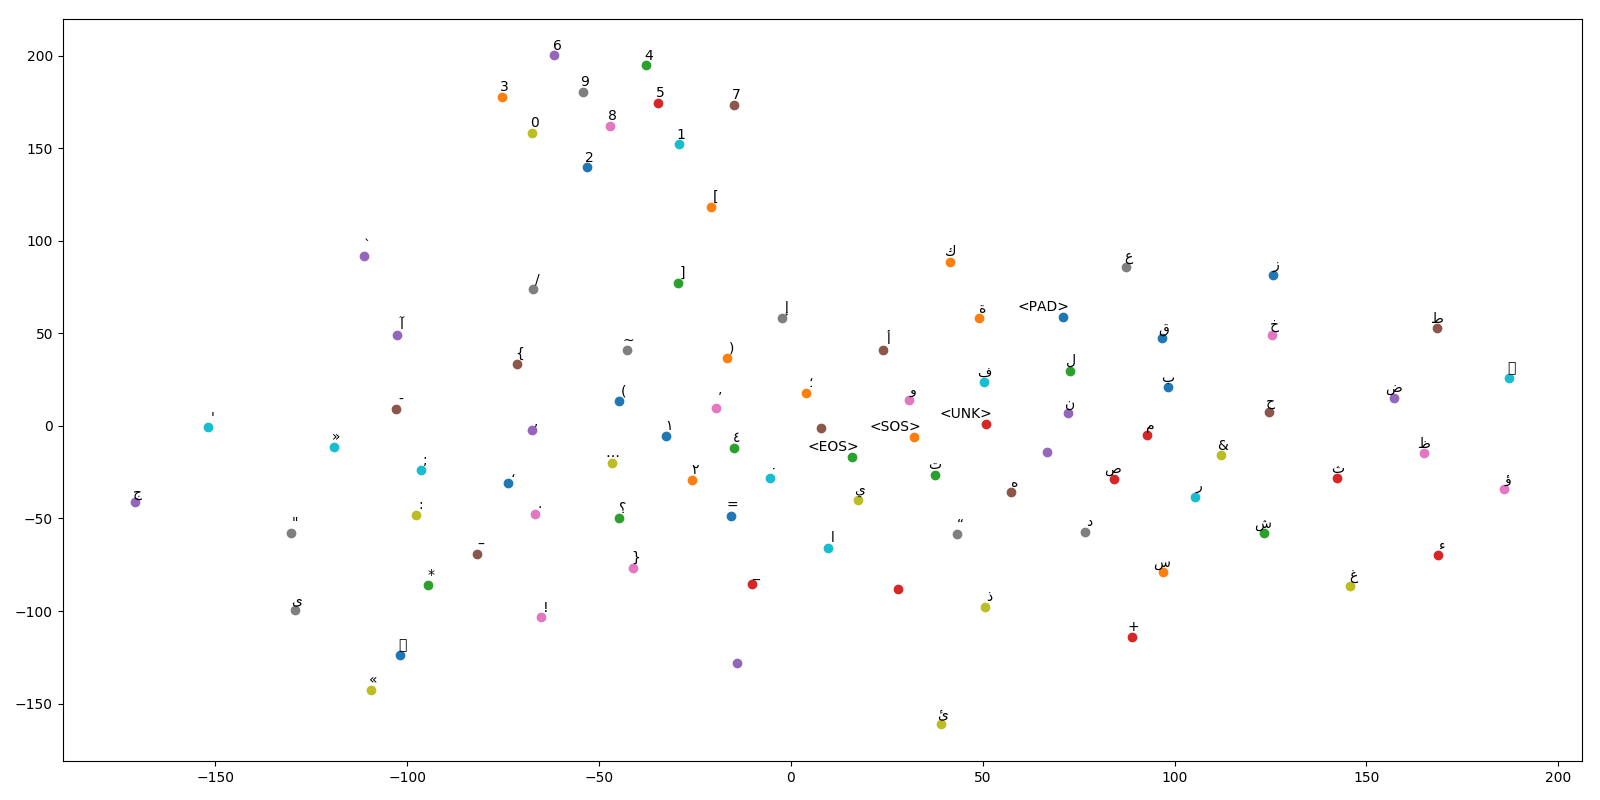
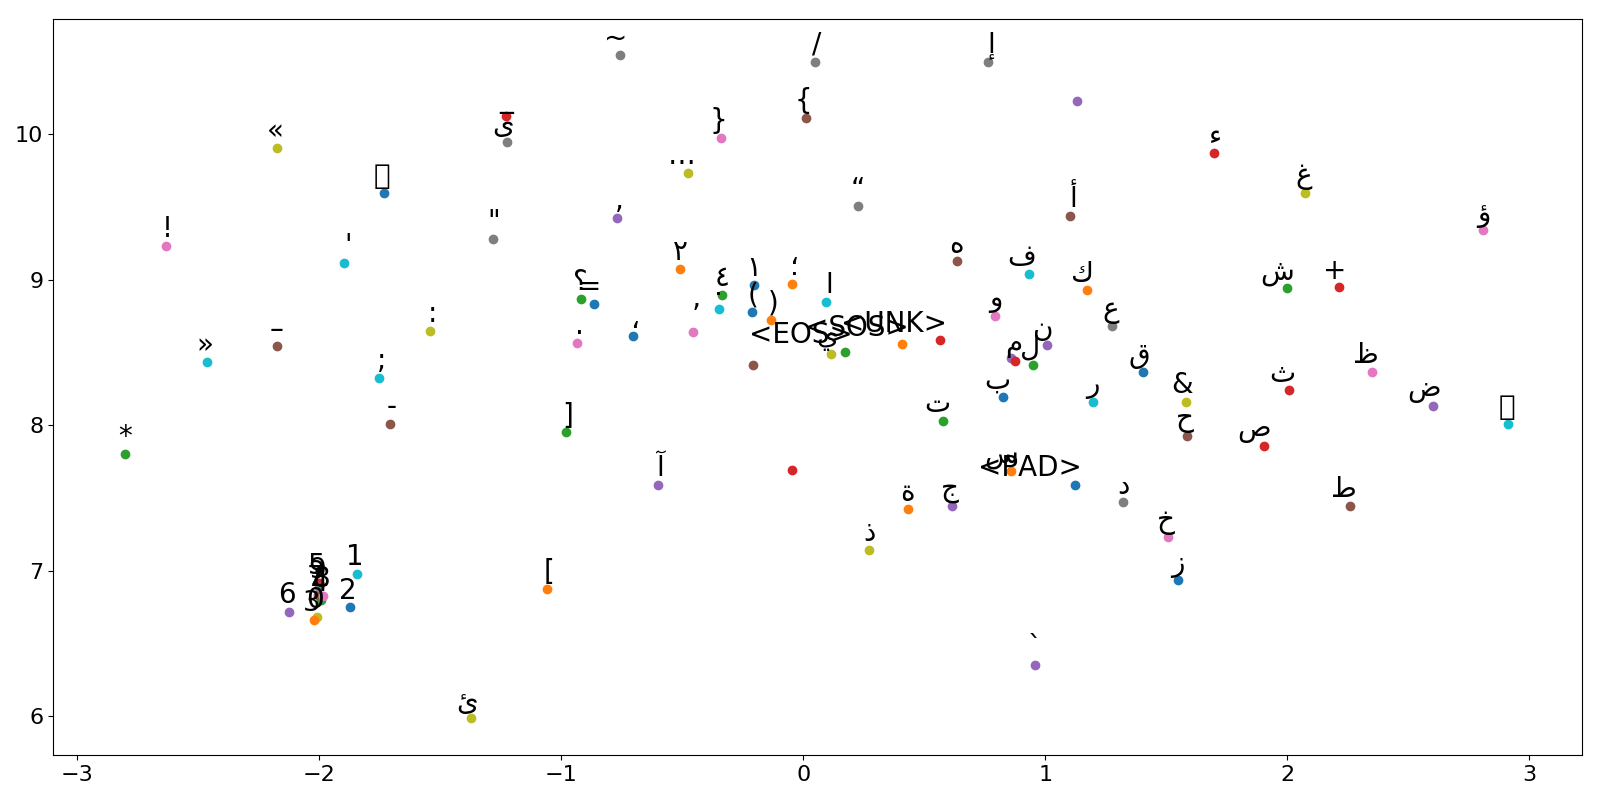
Update RNN models figures

diff --git a/helpers/build_der_figure.py b/helpers/build_der_figure.py
@@ -15,7 +15,7 @@ if __name__ == '__main__':
   
   colors = ['r', 'b', 'k']
 
-  plt.figure(num=None, figsize=(16, 6), dpi=100, facecolor='w', edgecolor='k')
+  fig, ax = plt.subplots(num=None, figsize=(10, 5), dpi=100, facecolor='w', edgecolor='k')
 
   for color, folder in zip(colors, folders):
     print(folder)
@@ -39,16 +39,27 @@ if __name__ == '__main__':
     plt.plot([i for i in range(5, 51, 5)], small_der, '%s%s--' % (color, 's'))
     plt.plot([i for i in range(5, 51, 5)], big_der, '%s%s-' % (color, 'o'))
 
-  plt.title('DER while Training')
-  plt.ylabel('DER')
-  plt.xlabel('Epoch')
-  plt.xticks([i for i in range(5, 51, 5)])
+  plt.ylabel('DER', fontsize=20)
+  plt.xlabel('Epoch', fontsize=20)
+
+  plt.xticks([i for i in range(5, 51, 5)], fontsize=16)
+
+  for tick in ax.yaxis.get_major_ticks():
+    tick.label.set_fontsize(16)
 
   handles = list()
   for color, folder in zip(colors, folders):
-    handles.append(Line2D([0], [0], color=color, lw=4, label=folder.split(sep)[-1].split('_')[1].title() + ' Model'))
+    model_name = folder.split(sep)[-1].split('_')[1].title()
+    if model_name == 'Crf':
+      model_name = model_name.upper()
+    if model_name == 'Normalized':
+      model_name = 'BNG'
+    handles.append(Line2D([0], [0], color=color, lw=4, label=model_name + ' Model'))
   handles.append(Line2D([0], [0], marker='s', label='w/o extra train'))
   handles.append(Line2D([0], [0], marker='o', label='w/ extra train'))
 
-  plt.legend(handles=handles, loc='best')
+  plt.legend(handles=handles, loc='best', fontsize=20)
+
+  plt.tight_layout()
+
   plt.show()

diff --git a/helpers/plot_character_embeddings.py b/helpers/plot_character_embeddings.py
@@ -7,7 +7,7 @@ from os.path import isdir, join
 from sklearn.manifold import TSNE
 
 def tsne_plot(tokens, labels):
-  tsne_model = TSNE(perplexity=20, random_state=1, n_components=2, init='pca')
+  tsne_model = TSNE(perplexity=40, random_state=40, n_components=2, n_iter=10000, init='pca')
   new_values = tsne_model.fit_transform(tokens)
 
   x = []
@@ -16,7 +16,7 @@ def tsne_plot(tokens, labels):
     x.append(value[0])
     y.append(value[1])
 
-  plt.figure(figsize=(16, 8)) 
+  fig, ax = plt.subplots(figsize=(16, 8)) 
   for i in range(len(x)):
     plt.scatter(x[i], y[i])
     plt.annotate(labels[i],
@@ -24,7 +24,12 @@ def tsne_plot(tokens, labels):
                  xytext=(5, 2),
                  textcoords='offset points',
                  ha='right',
-                 va='bottom')
+                 va='bottom',
+                 fontsize=20)
+  for tick in ax.xaxis.get_major_ticks():
+    tick.label.set_fontsize(16)
+  for tick in ax.yaxis.get_major_ticks():
+    tick.label.set_fontsize(16)
   plt.tight_layout()
   plt.show()
 
@@ -39,5 +44,6 @@ if __name__ == '__main__':
 
   with open(args.vocab_path, 'rb') as file:
     vocab = pkl.load(file)
+  vocab = list(vocab)
 
   tsne_plot(embeddings, vocab)

diff --git a/helpers/extract_character_embeddings.py b/helpers/extract_character_embeddings.py
@@ -1,0 +1,28 @@
+import argparse
+import pickle as pkl
+
+from keras.models import load_model
+from keras.initializers import glorot_normal
+from keras_contrib.layers import CRF
+from keras_contrib.losses import crf_loss
+from optimizer import NormalizedOptimizer
+
+if __name__ == '__main__':
+  parser = argparse.ArgumentParser()
+  parser.add_argument('--model-path', required=True)
+  args = parser.parse_args()
+
+  custom_objects = {
+    'GlorotNormal': glorot_normal(),
+    'CRF': CRF,
+    'crf_loss': crf_loss,
+    'NormalizedOptimizer': NormalizedOptimizer
+  }
+  model = load_model(args.model_path, custom_objects=custom_objects)
+
+  model.summary()
+
+  embeddings = model.layers[1].get_weights()[0]
+
+  with open('embeddings.pkl', 'wb') as file:
+    pkl.dump(embeddings, file)
